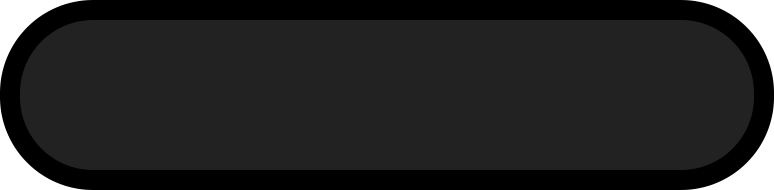
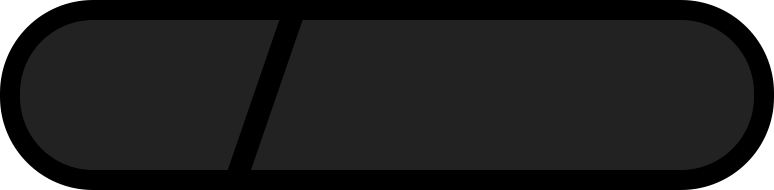
调整面板样式

Changed region(s): [[0.2791, 0.1053, 0.4031, 0.8947]]

diff --git a/resources/html/profile/detail.html b/resources/html/profile/detail.html
@@ -31,13 +31,11 @@
         {{set trees = ['A', 'B', 'AB', 'C', 'D', 'CD', 'E', 'F', 'EF']}}
         <div class="avatar_base_talentTree">
           {{each trees t idx}}
-          {{if avatar.talentTree>=idx&&t.length!=2}}
-          <div class="talentTree {{t}}">
+          <div class="talentTree {{((avatar.talentTree>=idx&&t.length!=2)||t.length==2)?`${t}`:''}}">
             {{if avatar.talentTree>=idx&&t.length==2}}
             <div class="TreeActive-long"></div>
             {{/if}}
           </div>
-          {{/if}}
           {{/each}}
           <div class="talentTree-right" style="background-color: var(--{{avatar.element}});"></div>
         </div>

diff --git a/resources/html/profile/detail.css b/resources/html/profile/detail.css
@@ -264,10 +264,10 @@ body {
 .avatar_base_level {
   position: absolute;
   top: 170px;
-  left: 70px;
+  left: 80px;
   display: flex;
   align-items: center;
-  width: 185px;
+  width: 175px;
   height: 45px;
   background-image: url('./images/level-bg.png');
   background-size: contain;
@@ -284,10 +284,10 @@ body {
 .avatar_base_element {
   position: absolute;
   top: 170px;
-  right: 15px;
+  right: 25px;
   display: flex;
   align-items: center;
-  width: 185px;
+  width: 175px;
   height: 45px;
   background-image: url('./images/element-bg.png');
   background-size: contain;

diff --git a/model/profile.js b/model/profile.js
@@ -196,7 +196,8 @@ export default class Profile extends Base {
       return data.map(d => this.setPropertie(d))
     }
     return {
-      name: data.property_name.replace(/^基础/, ''),
+      // name: data.property_name.replace(/^基础/, ''),
+      name: data.property_name,
       value: data.base
     }
   }
